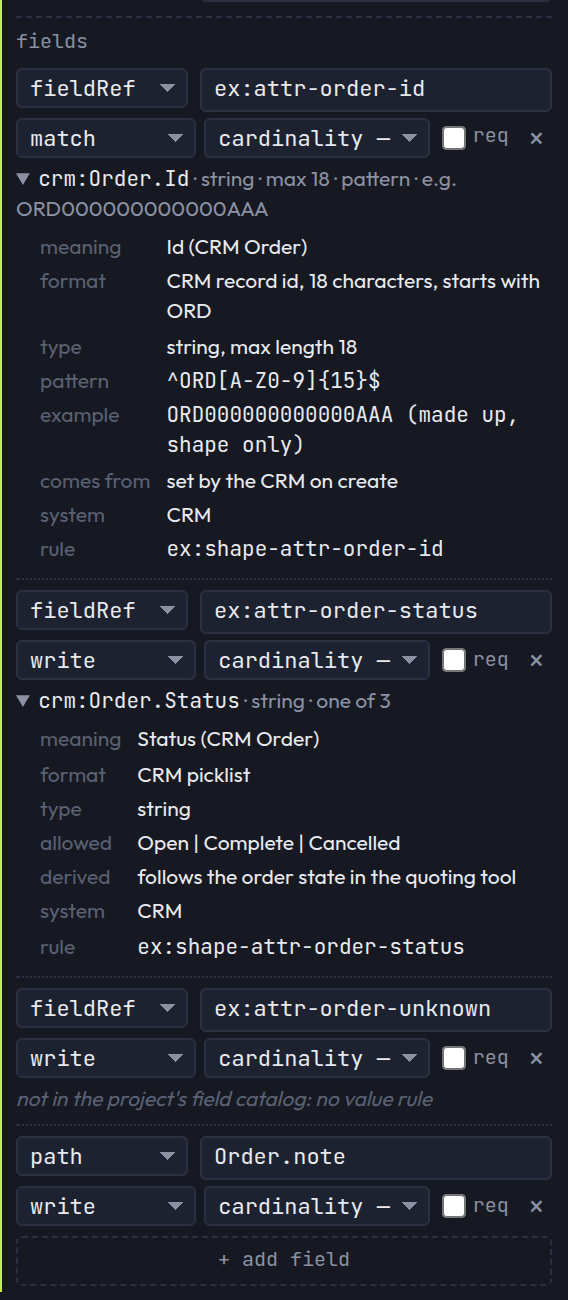
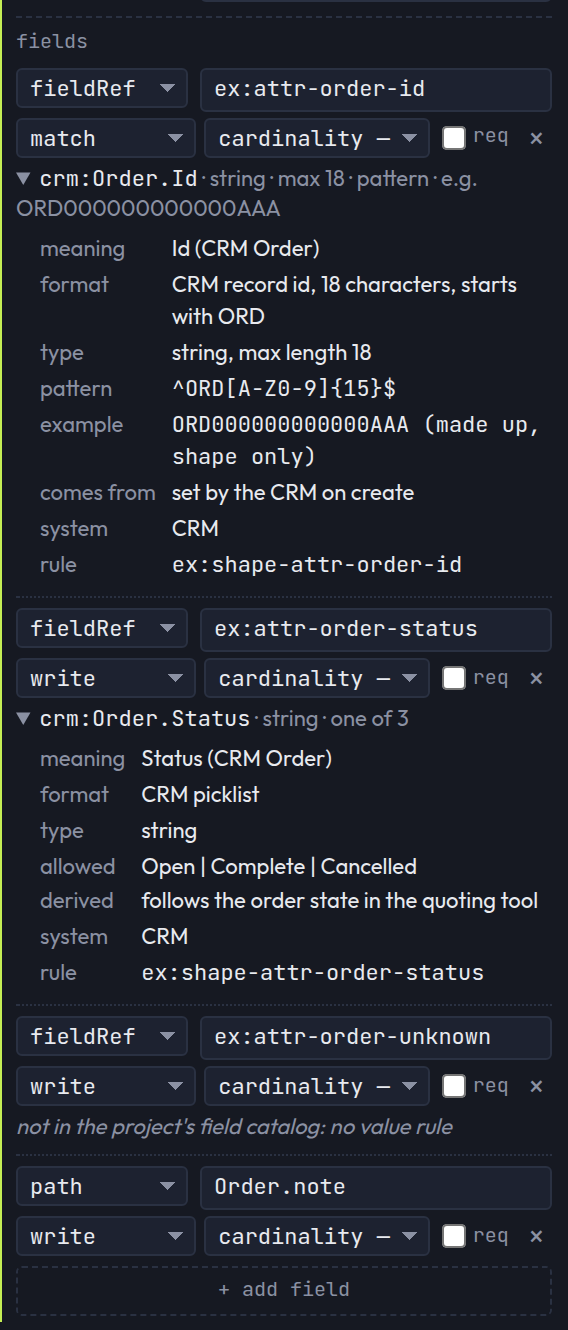
T-1365: advisory sweep — rule labels and the not-in-catalog line a step brighter (--text-dim), rule text 11px; screenshots retaken, gate green

diff --git a/src/aef-workflow-designer.html b/src/aef-workflow-designer.html
@@ -1279,14 +1279,14 @@ font-family: 'Outfit';
   .io-field-line2 select[data-fattr="cardinality"] { flex-grow: 1.35; }   /* room for "cardinality —" (T-1302 sweep) */
   .io-field-row + .io-field-row { border-top: 1px dotted var(--border); padding-top: 5px; }   /* where a field ends (sweep) */
   /* T-1365: the attribute's value rule from the project's field catalog, under its field row (read-only) */
-  .io-field-rule { grid-column: 1 / -1; min-width: 0; font-size: 10.5px; line-height: 1.45; color: var(--text-dim); overflow-wrap: anywhere; }
+  .io-field-rule { grid-column: 1 / -1; min-width: 0; font-size: 11px; line-height: 1.45; color: var(--text-dim); overflow-wrap: anywhere; }
   .io-field-rule summary { cursor: pointer; list-style-position: inside; }
   .io-field-rule .r-name { color: var(--text); font-family: var(--mono); }
   .io-field-rule .r-mono { font-family: var(--mono); }
   .io-field-rule dl { display: grid; grid-template-columns: max-content minmax(0, 1fr); gap: 2px 8px; margin: 4px 0 2px 12px; }
-  .io-field-rule dt { color: var(--text-faint); }
+  .io-field-rule dt { color: var(--text-dim); }   /* not --text-faint: too weak on dark (T-1365 sweep) */
   .io-field-rule dd { margin: 0; min-width: 0; color: var(--text); }
-  .io-field-rule.none { color: var(--text-faint); font-style: italic; }
+  .io-field-rule.none { color: var(--text-dim); font-style: italic; }
   .io-field-when { font-family: var(--mono); font-size: 10px; color: var(--text-dim); white-space: nowrap; }
   .io-attr-hint { grid-column: 2; font-size: 10px; color: var(--orange); }
   .io-attr-hint:empty { display: none; }

diff --git a/.tasks/active/T-1365-designer-shows-an-attributes-value-rule-.md b/.tasks/active/T-1365-designer-shows-an-attributes-value-rule-.md
@@ -351,6 +351,17 @@ What was read:
   and nothing is clipped. The toolbar wraps to two rows, as before.
 - **panel-1920-open.png:** everything fits. The rule text is small but legible, at the size the rest of the panel uses.
 
+**Advisory sweep** (codex, worker t1365-advisory-c4c7d85efd14, 2026-11-02, before the official review). It found no
+overlap, no clipping and no confusion with editable fields, and called the wording clear. Acted on: the muted labels,
+summaries and italic "not in catalog" line had weak contrast. The labels and that line now use `--text-dim` instead of
+`--text-faint`, and the rule text is 11 px instead of 10.5 px. Screenshots were retaken and the gate re-run.
+Not acted on:
+- "pattern" in the summary needs the opened rule to explain it. That is by design: the summary is a pointer, and the
+  rule is one click away.
+- The made-up format text omits the regex's detail, and "derived" has no state mapping. Those are catalog content
+  (the producer's), not display.
+- The panel's scroll position in the screenshots: the shots scroll to the fields.
+
 ## RCA
 
 <!-- REQUIRED for bug-class tasks (workflow_type=build with bug-tag, OR title matches
